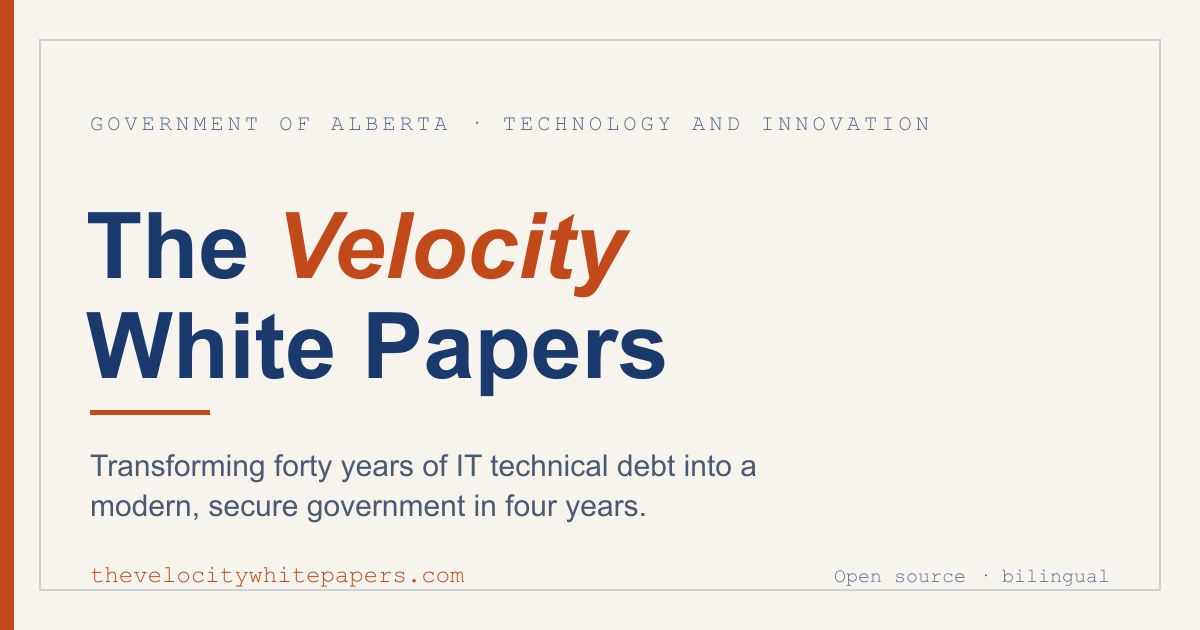
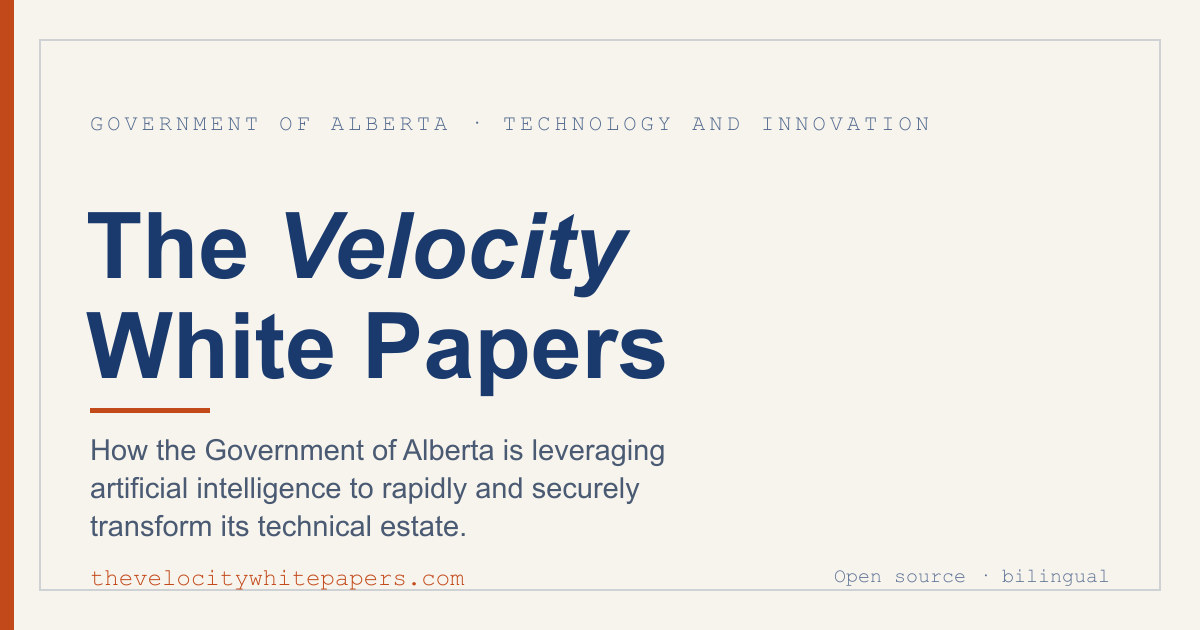
Per-paper social cards for all 18 papers; main card subtitle + Velocity colour fix
- build-paper-og-cards.mjs renders a tailored 1200x630 card for every paper
  (title auto-wrapped/auto-sized on the cream/navy/rust template, with number,
  tier, and track) to public/og/<id>.jpg, including the three placeholder stubs.
  Kept outside public/images so the metadata eval needs no sidecar.
- meta.js and prerender now use each paper's card as og:image / twitter:image
  in place of the abstract hero. npm run build:og builds the site card and all
  per-paper cards.
- Main site card: subtitle changed to the hero line ("How the Government of
  Alberta is leveraging artificial intelligence to rapidly and securely
  transform its technical estate"); "Velocity" is now navy, not rust.
- Regenerated prerender at the production base.

diff --git a/app/site/components/_lib/meta.js b/app/site/components/_lib/meta.js
@@ -158,11 +158,12 @@
         tag: 'meta', property: 'article:tag', content: t, 'data-i': String(i),
       });
     });
-    if (paper.hero_image && paper.hero_image.src) {
-      setProperty('og:image', SITE_URL_BASE + '/' + paper.hero_image.src);
-      setProperty('og:image:alt', paper.hero_image.alt || paper.title);
-      setMeta('twitter:image', SITE_URL_BASE + '/' + paper.hero_image.src);
-    }
+    /* Each paper has a tailored social card (its title on the collection
+       template) at public/og/<id>.jpg, used in place of the abstract hero. */
+    const card = SITE_URL_BASE + '/public/og/' + paper.id + '.jpg';
+    setProperty('og:image', card);
+    setProperty('og:image:alt', paper.title);
+    setMeta('twitter:image', card);
     setMeta('twitter:card', 'summary_large_image');
     setMeta('twitter:title', paper.title);
     setMeta('twitter:description', desc);

diff --git a/app/site/paper/bbkac/fr/index.html b/app/site/paper/bbkac/fr/index.html
@@ -16,12 +16,12 @@
   <meta property="og:url" content="https://thevelocitywhitepapers.com/paper/bbkac/fr/" />
   <meta property="og:site_name" content="Les livres blancs Velocity" />
   <meta property="og:locale" content="fr_CA" />
-  <meta property="og:image" content="https://thevelocitywhitepapers.com/public/images/bbkac/fr/hero.jpg" />
+  <meta property="og:image" content="https://thevelocitywhitepapers.com/public/og/bbkac.jpg" />
   <meta property="article:section" content="Technical" />
   <meta name="twitter:card" content="summary_large_image" />
   <meta name="twitter:title" content="Git Insights" />
   <meta name="twitter:description" content="Forthcoming. This paper sits in the Defining the Problem group of the collection. The body will be written from source materials." />
-  <meta name="twitter:image" content="https://thevelocitywhitepapers.com/public/images/bbkac/fr/hero.jpg" />
+  <meta name="twitter:image" content="https://thevelocitywhitepapers.com/public/og/bbkac.jpg" />
   <script type="application/ld+json">{"@context":"https://schema.org","@type":"ScholarlyArticle","headline":"Git Insights","description":"Forthcoming. This paper sits in the Defining the Problem group of the collection. The body will be written from source materials.","url":"https://thevelocitywhitepapers.com/paper/bbkac/fr/","inLanguage":"fr-CA","author":[{"@type":"Person","name":"Ministry of Technology and Innovation"}],"publisher":{"@type":"Organization","name":"Gouvernement de l'Alberta · Ministère de la Technologie et de l'Innovation"},"isPartOf":{"@type":"PublicationVolume","name":"Les livres blancs Velocity","url":"https://thevelocitywhitepapers.com/"},"image":"https://thevelocitywhitepapers.com/public/images/bbkac/fr/hero.jpg","about":"Technical"}</script>
   <link rel="preconnect" href="https://fonts.googleapis.com">
   <link rel="preconnect" href="https://fonts.gstatic.com" crossorigin>

diff --git a/app/site/paper/bbkac/index.html b/app/site/paper/bbkac/index.html
@@ -16,13 +16,13 @@
   <meta property="og:url" content="https://thevelocitywhitepapers.com/paper/bbkac/" />
   <meta property="og:site_name" content="The Velocity White Papers" />
   <meta property="og:locale" content="en_CA" />
-  <meta property="og:image" content="https://thevelocitywhitepapers.com/public/images/bbkac/en/hero.jpg" />
+  <meta property="og:image" content="https://thevelocitywhitepapers.com/public/og/bbkac.jpg" />
   <meta property="article:published_time" content="2026-06-16" />
   <meta property="article:section" content="Technical" />
   <meta name="twitter:card" content="summary_large_image" />
   <meta name="twitter:title" content="Git Insights" />
   <meta name="twitter:description" content="Alberta holds its code assets in GitHub Enterprise, but the estate had grown into a mire where prototypes mixed with production and no dataset linked to the next. Leadership could not get a definitive answer about what we run or how healthy it is. So, we built Git Insights, an agentic tool that recursively scans the entire estate and reports the ground truth of every repository. Fifty agents read 466 million lines of code in roughly 20 hours, mapping the digital landscape and capabilities of government. This paper explains the problem, shows in detail how the tool works, and reveals what the scans found. The analysis returned the languages and frameworks we had never counted, the repositories with no tests or documentation, the contributor patterns that quietly degrade security, and the first real benchmark of how AI compares to humans on our own code." />
-  <meta name="twitter:image" content="https://thevelocitywhitepapers.com/public/images/bbkac/en/hero.jpg" />
+  <meta name="twitter:image" content="https://thevelocitywhitepapers.com/public/og/bbkac.jpg" />
   <script type="application/ld+json">{"@context":"https://schema.org","@type":"ScholarlyArticle","headline":"Git Insights","description":"Alberta holds its code assets in GitHub Enterprise, but the estate had grown into a mire where prototypes mixed with production and no dataset linked to the next. Leadership could not get a definitive answer about what we run or how healthy it is. So, we built Git Insights, an agentic tool that recursively scans the entire estate and reports the ground truth of every repository. Fifty agents read 466 million lines of code in roughly 20 hours, mapping the digital landscape and capabilities of government. This paper explains the problem, shows in detail how the tool works, and reveals what the scans found. The analysis returned the languages and frameworks we had never counted, the repositories with no tests or documentation, the contributor patterns that quietly degrade security, and the first real benchmark of how AI compares to humans on our own code.","url":"https://thevelocitywhitepapers.com/paper/bbkac/","inLanguage":"en-CA","author":[{"@type":"Person","name":"Janak Alford"},{"@type":"Person","name":"Ministry of Technology and Innovation"}],"publisher":{"@type":"Organization","name":"Government of Alberta · Ministry of Technology and Innovation"},"datePublished":"2026-06-16","isPartOf":{"@type":"PublicationVolume","name":"The Velocity White Papers","url":"https://thevelocitywhitepapers.com/"},"keywords":"git-insights, code-analysis, agents, technical-debt, cybersecurity","image":"https://thevelocitywhitepapers.com/public/images/bbkac/en/hero.jpg","about":"Technical"}</script>
   <link rel="preconnect" href="https://fonts.googleapis.com">
   <link rel="preconnect" href="https://fonts.gstatic.com" crossorigin>

diff --git a/app/site/paper/cux4h/fr/index.html b/app/site/paper/cux4h/fr/index.html
@@ -16,13 +16,13 @@
   <meta property="og:url" content="https://thevelocitywhitepapers.com/paper/cux4h/fr/" />
   <meta property="og:site_name" content="Les livres blancs Velocity" />
   <meta property="og:locale" content="fr_CA" />
-  <meta property="og:image" content="https://thevelocitywhitepapers.com/public/images/cux4h/fr/hero.jpg" />
+  <meta property="og:image" content="https://thevelocitywhitepapers.com/public/og/cux4h.jpg" />
   <meta property="article:published_time" content="2026-04-08" />
   <meta property="article:section" content="Conceptual" />
   <meta name="twitter:card" content="summary_large_image" />
   <meta name="twitter:title" content="Le navire de Thésée à deux milliards de dollars" />
   <meta name="twitter:description" content="Le parc technologique que supervise le gouvernement de l&#39;Alberta a dépassé le point où l&#39;effort humain seul peut le maintenir à jour. Quarante ans de code, d&#39;infrastructure, de règles d&#39;affaires et de dépendances aux fournisseurs coûtent plus cher à porter chaque année, et les vulnérabilités connues augmentent plus vite qu&#39;elles ne peuvent être corrigées. Moderniser le parc au moyen de projets conventionnels prendrait des générations. Ce document explique pourquoi ce calcul ne tient pas, pourquoi un effectif jumelant humains et IA constitue la voie à suivre, et ce que le reste de la collection démontrera." />
-  <meta name="twitter:image" content="https://thevelocitywhitepapers.com/public/images/cux4h/fr/hero.jpg" />
+  <meta name="twitter:image" content="https://thevelocitywhitepapers.com/public/og/cux4h.jpg" />
   <script type="application/ld+json">{"@context":"https://schema.org","@type":"ScholarlyArticle","headline":"Le navire de Thésée à deux milliards de dollars","description":"Le parc technologique que supervise le gouvernement de l'Alberta a dépassé le point où l'effort humain seul peut le maintenir à jour. Quarante ans de code, d'infrastructure, de règles d'affaires et de dépendances aux fournisseurs coûtent plus cher à porter chaque année, et les vulnérabilités connues augmentent plus vite qu'elles ne peuvent être corrigées. Moderniser le parc au moyen de projets conventionnels prendrait des générations. Ce document explique pourquoi ce calcul ne tient pas, pourquoi un effectif jumelant humains et IA constitue la voie à suivre, et ce que le reste de la collection démontrera.","url":"https://thevelocitywhitepapers.com/paper/cux4h/fr/","inLanguage":"fr-CA","author":[{"@type":"Person","name":"Ministry of Technology and Innovation"}],"publisher":{"@type":"Organization","name":"Gouvernement de l'Alberta · Ministère de la Technologie et de l'Innovation"},"datePublished":"2026-04-08","isPartOf":{"@type":"PublicationVolume","name":"Les livres blancs Velocity","url":"https://thevelocitywhitepapers.com/"},"keywords":"thesis, technical-debt, cybersecurity, ai-agents, modernization","image":"https://thevelocitywhitepapers.com/public/images/cux4h/fr/hero.jpg","about":"Conceptual"}</script>
   <link rel="preconnect" href="https://fonts.googleapis.com">
   <link rel="preconnect" href="https://fonts.gstatic.com" crossorigin>

diff --git a/app/site/paper/cux4h/index.html b/app/site/paper/cux4h/index.html
@@ -16,13 +16,13 @@
   <meta property="og:url" content="https://thevelocitywhitepapers.com/paper/cux4h/" />
   <meta property="og:site_name" content="The Velocity White Papers" />
   <meta property="og:locale" content="en_CA" />
-  <meta property="og:image" content="https://thevelocitywhitepapers.com/public/images/cux4h/en/hero.jpg" />
+  <meta property="og:image" content="https://thevelocitywhitepapers.com/public/og/cux4h.jpg" />
   <meta property="article:published_time" content="2026-06-16" />
   <meta property="article:section" content="Conceptual" />
   <meta name="twitter:card" content="summary_large_image" />
   <meta name="twitter:title" content="The Two-Billion-Dollar Ship of Theseus" />
   <meta name="twitter:description" content="The technical estate the Government of Alberta oversees has grown past the point where human effort alone can keep it current. More than forty years of code, infrastructure, business rules, and vendor dependencies cost more to carry every year, and known vulnerabilities are emerging faster than they can be remediated. Modernizing the estate through conventional project work would take generations. This paper sets out human ingenuity paired with an AI workforce can solve these challenges while rebuilding the ship of government in just a few short years." />
-  <meta name="twitter:image" content="https://thevelocitywhitepapers.com/public/images/cux4h/en/hero.jpg" />
+  <meta name="twitter:image" content="https://thevelocitywhitepapers.com/public/og/cux4h.jpg" />
   <script type="application/ld+json">{"@context":"https://schema.org","@type":"ScholarlyArticle","headline":"The Two-Billion-Dollar Ship of Theseus","description":"The technical estate the Government of Alberta oversees has grown past the point where human effort alone can keep it current. More than forty years of code, infrastructure, business rules, and vendor dependencies cost more to carry every year, and known vulnerabilities are emerging faster than they can be remediated. Modernizing the estate through conventional project work would take generations. This paper sets out human ingenuity paired with an AI workforce can solve these challenges while rebuilding the ship of government in just a few short years.","url":"https://thevelocitywhitepapers.com/paper/cux4h/","inLanguage":"en-CA","author":[{"@type":"Person","name":"Janak Alford"},{"@type":"Person","name":"Ministry of Technology and Innovation"}],"publisher":{"@type":"Organization","name":"Government of Alberta · Ministry of Technology and Innovation"},"datePublished":"2026-06-16","isPartOf":{"@type":"PublicationVolume","name":"The Velocity White Papers","url":"https://thevelocitywhitepapers.com/"},"keywords":"thesis, technical-debt, cybersecurity, ai-agents, modernization","image":"https://thevelocitywhitepapers.com/public/images/cux4h/en/hero.jpg","about":"Conceptual"}</script>
   <link rel="preconnect" href="https://fonts.googleapis.com">
   <link rel="preconnect" href="https://fonts.gstatic.com" crossorigin>

diff --git a/app/site/paper/dt725/fr/index.html b/app/site/paper/dt725/fr/index.html
@@ -16,12 +16,12 @@
   <meta property="og:url" content="https://thevelocitywhitepapers.com/paper/dt725/fr/" />
   <meta property="og:site_name" content="Les livres blancs Velocity" />
   <meta property="og:locale" content="fr_CA" />
-  <meta property="og:image" content="https://thevelocitywhitepapers.com/public/images/dt725/fr/hero.jpg" />
+  <meta property="og:image" content="https://thevelocitywhitepapers.com/public/og/dt725.jpg" />
   <meta property="article:section" content="Policy &amp; People" />
   <meta name="twitter:card" content="summary_large_image" />
   <meta name="twitter:title" content="The AI Academy: Investing in People" />
   <meta name="twitter:description" content="Forthcoming. This paper sits in the Human and Change Management group of the collection. The body will be written from source materials." />
-  <meta name="twitter:image" content="https://thevelocitywhitepapers.com/public/images/dt725/fr/hero.jpg" />
+  <meta name="twitter:image" content="https://thevelocitywhitepapers.com/public/og/dt725.jpg" />
   <script type="application/ld+json">{"@context":"https://schema.org","@type":"ScholarlyArticle","headline":"The AI Academy: Investing in People","description":"Forthcoming. This paper sits in the Human and Change Management group of the collection. The body will be written from source materials.","url":"https://thevelocitywhitepapers.com/paper/dt725/fr/","inLanguage":"fr-CA","author":[{"@type":"Person","name":"Ministry of Technology and Innovation"}],"publisher":{"@type":"Organization","name":"Gouvernement de l'Alberta · Ministère de la Technologie et de l'Innovation"},"isPartOf":{"@type":"PublicationVolume","name":"Les livres blancs Velocity","url":"https://thevelocitywhitepapers.com/"},"image":"https://thevelocitywhitepapers.com/public/images/dt725/fr/hero.jpg","about":"Policy & People"}</script>
   <link rel="preconnect" href="https://fonts.googleapis.com">
   <link rel="preconnect" href="https://fonts.gstatic.com" crossorigin>

diff --git a/app/site/paper/dt725/index.html b/app/site/paper/dt725/index.html
@@ -16,12 +16,12 @@
   <meta property="og:url" content="https://thevelocitywhitepapers.com/paper/dt725/" />
   <meta property="og:site_name" content="The Velocity White Papers" />
   <meta property="og:locale" content="en_CA" />
-  <meta property="og:image" content="https://thevelocitywhitepapers.com/public/images/dt725/en/hero.jpg" />
+  <meta property="og:image" content="https://thevelocitywhitepapers.com/public/og/dt725.jpg" />
   <meta property="article:section" content="Policy &amp; People" />
   <meta name="twitter:card" content="summary_large_image" />
   <meta name="twitter:title" content="The AI Academy: Investing in People" />
   <meta name="twitter:description" content="The Alberta AI Academy is a graduated training program that prepares public servants to work with artificial intelligence. It grew out of the AI Maximalist program, where a first cohort of about sixty-five volunteers revealed both the demand for structured training and the wide range of responses to a new technology. Launched in September 2025, the Academy runs in three levels: prompting and the foundations of trusted AI use, reusable agents for repeatable work, and the building of enterprise-grade applications with a harness. Cohorts range from sixty to several hundred participants and cross every level of seniority. Course materials are published openly at albertaaiacademy.com. This paper describes the program&#39;s origins, the human-centered principle it was designed around, its structure across the three levels, the persona-based approach used in Level 3, and the mindset the Academy works to instill: that effective AI adoption is a discipline of persistent, verified practice rather than a metric to be optimized." />
-  <meta name="twitter:image" content="https://thevelocitywhitepapers.com/public/images/dt725/en/hero.jpg" />
+  <meta name="twitter:image" content="https://thevelocitywhitepapers.com/public/og/dt725.jpg" />
   <script type="application/ld+json">{"@context":"https://schema.org","@type":"ScholarlyArticle","headline":"The AI Academy: Investing in People","description":"The Alberta AI Academy is a graduated training program that prepares public servants to work with artificial intelligence. It grew out of the AI Maximalist program, where a first cohort of about sixty-five volunteers revealed both the demand for structured training and the wide range of responses to a new technology. Launched in September 2025, the Academy runs in three levels: prompting and the foundations of trusted AI use, reusable agents for repeatable work, and the building of enterprise-grade applications with a harness. Cohorts range from sixty to several hundred participants and cross every level of seniority. Course materials are published openly at albertaaiacademy.com. This paper describes the program's origins, the human-centered principle it was designed around, its structure across the three levels, the persona-based approach used in Level 3, and the mindset the Academy works to instill: that effective AI adoption is a discipline of persistent, verified practice rather than a metric to be optimized.","url":"https://thevelocitywhitepapers.com/paper/dt725/","inLanguage":"en-CA","author":[{"@type":"Person","name":"Janak Alford"},{"@type":"Person","name":"Deputy Minister"},{"@type":"Person","name":"Technology and Innovation"}],"publisher":{"@type":"Organization","name":"Government of Alberta · Ministry of Technology and Innovation"},"isPartOf":{"@type":"PublicationVolume","name":"The Velocity White Papers","url":"https://thevelocitywhitepapers.com/"},"keywords":"ai-academy, training, change-management, personas, harness, prompting, agents, open-source","image":"https://thevelocitywhitepapers.com/public/images/dt725/en/hero.jpg","about":"Policy & People"}</script>
   <link rel="preconnect" href="https://fonts.googleapis.com">
   <link rel="preconnect" href="https://fonts.gstatic.com" crossorigin>

diff --git a/app/site/paper/eujjc/fr/index.html b/app/site/paper/eujjc/fr/index.html
@@ -16,12 +16,12 @@
   <meta property="og:url" content="https://thevelocitywhitepapers.com/paper/eujjc/fr/" />
   <meta property="og:site_name" content="Les livres blancs Velocity" />
   <meta property="og:locale" content="fr_CA" />
-  <meta property="og:image" content="https://thevelocitywhitepapers.com/public/images/eujjc/fr/hero.jpg" />
+  <meta property="og:image" content="https://thevelocitywhitepapers.com/public/og/eujjc.jpg" />
   <meta property="article:section" content="Policy &amp; People" />
   <meta name="twitter:card" content="summary_large_image" />
   <meta name="twitter:title" content="Le problème de compression" />
   <meta name="twitter:description" content="Tous les systèmes peinent à compresser le détail vers le stratégique. Le cadrage humain défectueux oppose commandement central et délégation comme une alternative. Dans l&#39;espace agentique, les agents opèrent des dizaines voire des centaines de fois plus vite que les humains. La bonne réponse est de créer des sociétés autonomes isolées, de mettre les modèles en compétition via Nexus, puis de trancher empiriquement." />
-  <meta name="twitter:image" content="https://thevelocitywhitepapers.com/public/images/eujjc/fr/hero.jpg" />
+  <meta name="twitter:image" content="https://thevelocitywhitepapers.com/public/og/eujjc.jpg" />
   <script type="application/ld+json">{"@context":"https://schema.org","@type":"ScholarlyArticle","headline":"Le problème de compression","description":"Tous les systèmes peinent à compresser le détail vers le stratégique. Le cadrage humain défectueux oppose commandement central et délégation comme une alternative. Dans l'espace agentique, les agents opèrent des dizaines voire des centaines de fois plus vite que les humains. La bonne réponse est de créer des sociétés autonomes isolées, de mettre les modèles en compétition via Nexus, puis de trancher empiriquement.","url":"https://thevelocitywhitepapers.com/paper/eujjc/fr/","inLanguage":"fr-CA","author":[{"@type":"Person","name":"Ministère de la Technologie et de l'Innovation"}],"publisher":{"@type":"Organization","name":"Gouvernement de l'Alberta · Ministère de la Technologie et de l'Innovation"},"isPartOf":{"@type":"PublicationVolume","name":"Les livres blancs Velocity","url":"https://thevelocitywhitepapers.com/"},"image":"https://thevelocitywhitepapers.com/public/images/eujjc/fr/hero.jpg","about":"Policy & People"}</script>
   <link rel="preconnect" href="https://fonts.googleapis.com">
   <link rel="preconnect" href="https://fonts.gstatic.com" crossorigin>

diff --git a/app/site/paper/eujjc/index.html b/app/site/paper/eujjc/index.html
@@ -16,12 +16,12 @@
   <meta property="og:url" content="https://thevelocitywhitepapers.com/paper/eujjc/" />
   <meta property="og:site_name" content="The Velocity White Papers" />
   <meta property="og:locale" content="en_CA" />
-  <meta property="og:image" content="https://thevelocitywhitepapers.com/public/images/eujjc/en/hero.jpg" />
+  <meta property="og:image" content="https://thevelocitywhitepapers.com/public/og/eujjc.jpg" />
   <meta property="article:section" content="Policy &amp; People" />
   <meta name="twitter:card" content="summary_large_image" />
   <meta name="twitter:title" content="The Compression Problem" />
   <meta name="twitter:description" content="Government and large enterprises face a paradox when modernizing legacy systems at scale. The transformation of the Government of Alberta&#39;s fourteen hundred systems, representing four hundred sixty-six million lines of code across four thousand repositories, requires compressing forty years of accumulated technical debt, institutional knowledge, and embedded business logic into a four-year window, at a target of twentyfold faster delivery and about a ninety-five percent reduction in cost. This white paper argues that the core challenge is informational rather than technical: how to maintain fidelity of ground truth as information moves up and down organizational hierarchies, where each layer compresses what it communicates upward and decompresses what it receives downward. This compression problem is not unique to artificial intelligence; it is the reason hierarchical organizations exist. AI introduces both a solution and a new set of risks. By enabling information fidelity across parallel agents, instant knowledge propagation, and operation at machine speed, AI can theoretically flatten organizational structures and maintain coherence across unprecedented scale. Yet this only works if we solve the compression problem: ensuring that strategic intent survives countless handoffs, that ground truth stays synchronized across thousands of concurrent agents, and that humans remain meaningfully in the loop despite operating in a system orders of magnitude faster than human cognition." />
-  <meta name="twitter:image" content="https://thevelocitywhitepapers.com/public/images/eujjc/en/hero.jpg" />
+  <meta name="twitter:image" content="https://thevelocitywhitepapers.com/public/og/eujjc.jpg" />
   <script type="application/ld+json">{"@context":"https://schema.org","@type":"ScholarlyArticle","headline":"The Compression Problem","description":"Government and large enterprises face a paradox when modernizing legacy systems at scale. The transformation of the Government of Alberta's fourteen hundred systems, representing four hundred sixty-six million lines of code across four thousand repositories, requires compressing forty years of accumulated technical debt, institutional knowledge, and embedded business logic into a four-year window, at a target of twentyfold faster delivery and about a ninety-five percent reduction in cost. This white paper argues that the core challenge is informational rather than technical: how to maintain fidelity of ground truth as information moves up and down organizational hierarchies, where each layer compresses what it communicates upward and decompresses what it receives downward. This compression problem is not unique to artificial intelligence; it is the reason hierarchical organizations exist. AI introduces both a solution and a new set of risks. By enabling information fidelity across parallel agents, instant knowledge propagation, and operation at machine speed, AI can theoretically flatten organizational structures and maintain coherence across unprecedented scale. Yet this only works if we solve the compression problem: ensuring that strategic intent survives countless handoffs, that ground truth stays synchronized across thousands of concurrent agents, and that humans remain meaningfully in the loop despite operating in a system orders of magnitude faster than human cognition.","url":"https://thevelocitywhitepapers.com/paper/eujjc/","inLanguage":"en-CA","author":[{"@type":"Person","name":"Janak Alford"},{"@type":"Person","name":"Deputy Minister"},{"@type":"Person","name":"Technology and Innovation"}],"publisher":{"@type":"Organization","name":"Government of Alberta · Ministry of Technology and Innovation"},"isPartOf":{"@type":"PublicationVolume","name":"The Velocity White Papers","url":"https://thevelocitywhitepapers.com/"},"keywords":"compression, hierarchy, organizational-design, agents, fidelity, hallucination, change-management","image":"https://thevelocitywhitepapers.com/public/images/eujjc/en/hero.jpg","about":"Policy & People"}</script>
   <link rel="preconnect" href="https://fonts.googleapis.com">
   <link rel="preconnect" href="https://fonts.gstatic.com" crossorigin>

diff --git a/app/site/paper/k3tc3/fr/index.html b/app/site/paper/k3tc3/fr/index.html
@@ -16,12 +16,12 @@
   <meta property="og:url" content="https://thevelocitywhitepapers.com/paper/k3tc3/fr/" />
   <meta property="og:site_name" content="Les livres blancs Velocity" />
   <meta property="og:locale" content="fr_CA" />
-  <meta property="og:image" content="https://thevelocitywhitepapers.com/public/images/k3tc3/fr/hero.jpg" />
+  <meta property="og:image" content="https://thevelocitywhitepapers.com/public/og/k3tc3.jpg" />
   <meta property="article:section" content="Technical" />
   <meta name="twitter:card" content="summary_large_image" />
   <meta name="twitter:title" content="The AI Factory: Measuring Project Delivery (The Velocity Game Engine)" />
   <meta name="twitter:description" content="Forthcoming. This paper sits in the Engineering the Solution group of the collection. The body will be written from source materials." />
-  <meta name="twitter:image" content="https://thevelocitywhitepapers.com/public/images/k3tc3/fr/hero.jpg" />
+  <meta name="twitter:image" content="https://thevelocitywhitepapers.com/public/og/k3tc3.jpg" />
   <script type="application/ld+json">{"@context":"https://schema.org","@type":"ScholarlyArticle","headline":"The AI Factory: Measuring Project Delivery (The Velocity Game Engine)","description":"Forthcoming. This paper sits in the Engineering the Solution group of the collection. The body will be written from source materials.","url":"https://thevelocitywhitepapers.com/paper/k3tc3/fr/","inLanguage":"fr-CA","author":[{"@type":"Person","name":"Ministry of Technology and Innovation"}],"publisher":{"@type":"Organization","name":"Gouvernement de l'Alberta · Ministère de la Technologie et de l'Innovation"},"isPartOf":{"@type":"PublicationVolume","name":"Les livres blancs Velocity","url":"https://thevelocitywhitepapers.com/"},"image":"https://thevelocitywhitepapers.com/public/images/k3tc3/fr/hero.jpg","about":"Technical"}</script>
   <link rel="preconnect" href="https://fonts.googleapis.com">
   <link rel="preconnect" href="https://fonts.gstatic.com" crossorigin>

diff --git a/app/site/paper/k3tc3/index.html b/app/site/paper/k3tc3/index.html
@@ -16,12 +16,12 @@
   <meta property="og:url" content="https://thevelocitywhitepapers.com/paper/k3tc3/" />
   <meta property="og:site_name" content="The Velocity White Papers" />
   <meta property="og:locale" content="en_CA" />
-  <meta property="og:image" content="https://thevelocitywhitepapers.com/public/images/k3tc3/en/hero.jpg" />
+  <meta property="og:image" content="https://thevelocitywhitepapers.com/public/og/k3tc3.jpg" />
   <meta property="article:section" content="Technical" />
   <meta name="twitter:card" content="summary_large_image" />
   <meta name="twitter:title" content="The AI Factory: Measuring Project Delivery (The Velocity Game Engine)" />
   <meta name="twitter:description" content="Velocity is the third stage of Alberta&#39;s AI factory, after Pronghorn and Nexus. It is an open-source project tool, built as a game, that makes an AI agent a full member of the team and measures real delivery now that estimation no longer works. Work climbs eight stages, earning points moving forward and losing them when it slides back." />
-  <meta name="twitter:image" content="https://thevelocitywhitepapers.com/public/images/k3tc3/en/hero.jpg" />
+  <meta name="twitter:image" content="https://thevelocitywhitepapers.com/public/og/k3tc3.jpg" />
   <script type="application/ld+json">{"@context":"https://schema.org","@type":"ScholarlyArticle","headline":"The AI Factory: Measuring Project Delivery (The Velocity Game Engine)","description":"Velocity is the third stage of Alberta's AI factory, after Pronghorn and Nexus. It is an open-source project tool, built as a game, that makes an AI agent a full member of the team and measures real delivery now that estimation no longer works. Work climbs eight stages, earning points moving forward and losing them when it slides back.","url":"https://thevelocitywhitepapers.com/paper/k3tc3/","inLanguage":"en-CA","author":[{"@type":"Person","name":"Janak Alford"},{"@type":"Person","name":"Deputy Minister"},{"@type":"Person","name":"Technology and Innovation"}],"publisher":{"@type":"Organization","name":"Government of Alberta · Ministry of Technology and Innovation"},"isPartOf":{"@type":"PublicationVolume","name":"The Velocity White Papers","url":"https://thevelocitywhitepapers.com/"},"keywords":"ai-factory, velocity, project-management, agents, orchestration, reaper, sse, open-source","image":"https://thevelocitywhitepapers.com/public/images/k3tc3/en/hero.jpg","about":"Technical"}</script>
   <link rel="preconnect" href="https://fonts.googleapis.com">
   <link rel="preconnect" href="https://fonts.gstatic.com" crossorigin>

diff --git a/app/site/paper/l199t/fr/index.html b/app/site/paper/l199t/fr/index.html
@@ -16,12 +16,12 @@
   <meta property="og:url" content="https://thevelocitywhitepapers.com/paper/l199t/fr/" />
   <meta property="og:site_name" content="Les livres blancs Velocity" />
   <meta property="og:locale" content="fr_CA" />
-  <meta property="og:image" content="https://thevelocitywhitepapers.com/public/images/l199t/fr/hero.jpg" />
+  <meta property="og:image" content="https://thevelocitywhitepapers.com/public/og/l199t.jpg" />
   <meta property="article:section" content="Technical" />
   <meta name="twitter:card" content="summary_large_image" />
   <meta name="twitter:title" content="Red, Blue, Green, and Yellow Agents" />
   <meta name="twitter:description" content="Forthcoming. This paper sits in the Engineering the Solution group of the collection. The body will be written from source materials." />
-  <meta name="twitter:image" content="https://thevelocitywhitepapers.com/public/images/l199t/fr/hero.jpg" />
+  <meta name="twitter:image" content="https://thevelocitywhitepapers.com/public/og/l199t.jpg" />
   <script type="application/ld+json">{"@context":"https://schema.org","@type":"ScholarlyArticle","headline":"Red, Blue, Green, and Yellow Agents","description":"Forthcoming. This paper sits in the Engineering the Solution group of the collection. The body will be written from source materials.","url":"https://thevelocitywhitepapers.com/paper/l199t/fr/","inLanguage":"fr-CA","author":[{"@type":"Person","name":"Ministry of Technology and Innovation"}],"publisher":{"@type":"Organization","name":"Gouvernement de l'Alberta · Ministère de la Technologie et de l'Innovation"},"isPartOf":{"@type":"PublicationVolume","name":"Les livres blancs Velocity","url":"https://thevelocitywhitepapers.com/"},"image":"https://thevelocitywhitepapers.com/public/images/l199t/fr/hero.jpg","about":"Technical"}</script>
   <link rel="preconnect" href="https://fonts.googleapis.com">
   <link rel="preconnect" href="https://fonts.gstatic.com" crossorigin>